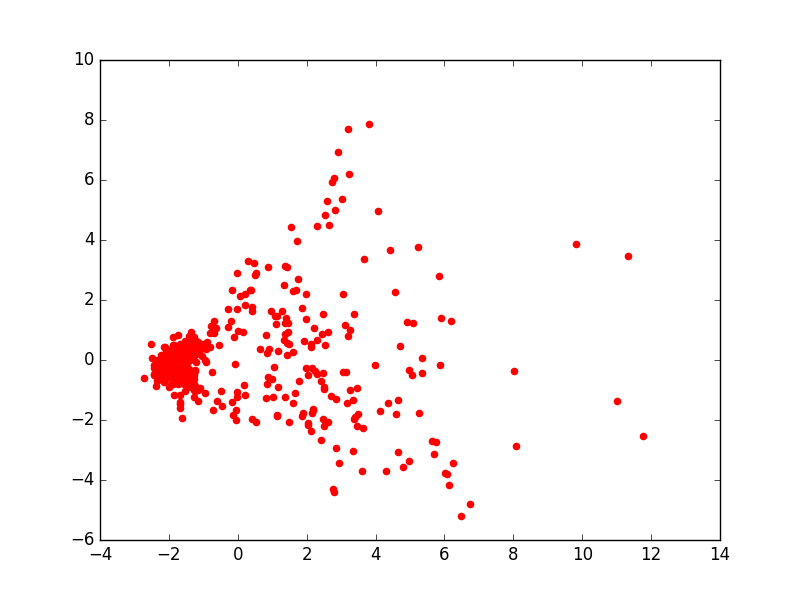
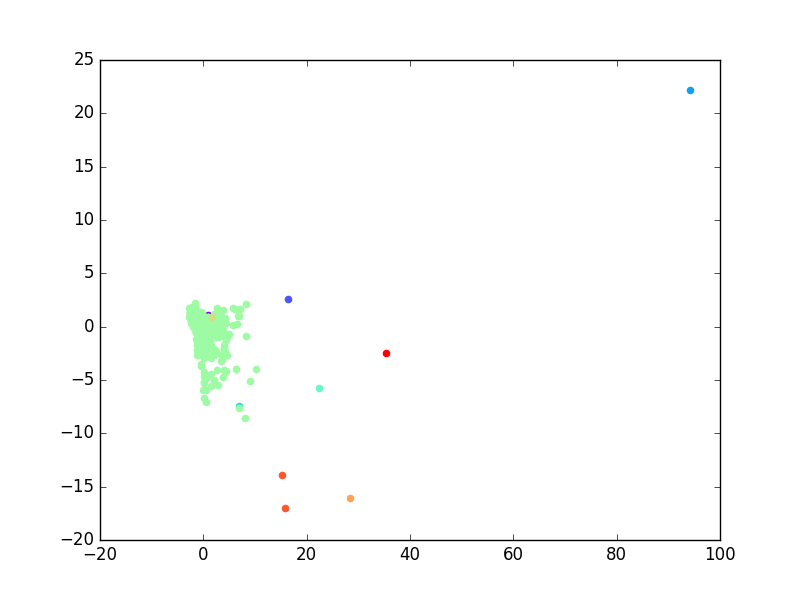
final fixes fix pca implementation

diff --git a/helper/graph.py b/helper/graph.py
@@ -5,30 +5,35 @@ import numpy as np
 
 
 def plot(data, centroids=None, n=None, filename=None, truth=None):
+    if truth: key = 'truth'
+    else: key = 'cluster'
+    cluster = map(lambda d: d[key], data)
+    points = map(lambda d: d['expressions'], data)
 
     fig, ax = plt.subplots()
     if centroids:
         colors = iter(cm.rainbow(np.linspace(0, 1, len(centroids))))
-        centroids = map(lambda d: d['expressions'], centroids)
-        pca = PCA(n_components=2)
-        fitted_centroids = pca.fit_transform(centroids)
+        c_centroids = map(lambda d: d['expressions'], centroids)
+        c_cluster = range(1,len(centroids)+1)
+        points.extend(c_centroids)
+        cluster.extend(c_cluster)
         n = len(centroids)
     elif n:
         colors = iter(cm.rainbow(np.linspace(0, 1, n)))
+    pca = PCA(n_components=2)
+    pca.fit(points)
+    fitted = pca.transform(points)
     for i in range(n):
-        pca = PCA(n_components=2)
         c = next(colors)
+        ids = [q for q, x in enumerate(cluster) if x == i+1]
+        c_points = fitted[ids, :]
         if centroids:
-            centroid = fitted_centroids[i]
+            centroid = c_points[(-1), :]
             plt.scatter(centroid[0], centroid[1], color=c, marker='x', s=80)
-        if truth:
-            points = map(lambda f: f['expressions'], filter(lambda d: d['truth'] == i + 1, data))
-        else:
-            points = map(lambda f: f['expressions'], filter(lambda d: d['cluster'] == i + 1, data))
-        if len(points):
-            fitted = pca.fit_transform(points)
-            if fitted.shape[1] == 2:
-                plt.scatter(fitted[:, 0], fitted[:, 1], color=c)
+
+        if len(c_points):
+            if c_points.shape[1] == 2:
+                plt.scatter(c_points[:, 0], c_points[:, 1], color=c)
         # break
     plt.show()
     if filename:

diff --git a/Kmeans.py b/Kmeans.py
@@ -6,16 +6,17 @@ from helper.utils import load_data, print_list, pick
 from helper.validation import jaccard_coefficient
 from helper.graph import plot
 
-filename = "iyer"
-# IDS = "1,68,203,278,332"
-IDS = "2,102,263,301,344,356,394,411,474,493"
-# IDS = "1,10,20"
+filename = "cho"
+IDS = "1,68,203,278,332"
+# IDS = "2,102,263,301,344,356,394,411,474,493"
+# IDS = "40,41,42"
 # IDS = "1,4"
+
 IDS = IDS.split(',')
 CLUSTERS = len(IDS)
 INPUT_FILE = 'data/'+filename+'.txt'
 
-iterations = 5
+iterations = None
 
 
 def distance(a1, a2):
@@ -79,7 +80,7 @@ while not converged(prev, data):
         if i == iterations:
             break
         i += 1
-        print i+1
+        print i + 1
     centroids = compute_centroids(data)
     prev = deepcopy(data)
     compute_distance(centroids, data)
@@ -88,5 +89,5 @@ for i in range(CLUSTERS):
     print map(lambda c: c['id'], filter(lambda d: d['cluster'] == i+1, data))
 end = time.time()
 print "time elapsed", end-start
-print jaccard_coefficient(original, data)
+print "Jaccard Coefficient", jaccard_coefficient(original, data)
 plot(data, centroids=centroids, filename="output/truth-"+filename+".png", truth=True)

diff --git a/Spectral.py b/Spectral.py
@@ -11,10 +11,10 @@ import time
 
 iterations = None
 
-filename = 'iyer'
+filename = 'new_dataset_1'
 # IDS = "1,68,203,278,332"
-IDS = "2,102,263,301,344,356,394,411,474,493"
-# IDS = "1,10,20"
+# IDS = "2,102,263,301,344,356,394,411,474,493"
+IDS = "1,10,20"
 # IDS = "1,4"
 INPUT_FILE = 'data/'+filename+'.txt'
 IDS = IDS.split(',')
@@ -26,9 +26,9 @@ points = map(lambda d: d['expressions'], data)
 matrix = distance_matrix(points, points, p=2)
 laplacian_matrix = laplacian(matrix)
 
-vals, vecs = eigs(laplacian_matrix, k=4)
-for i in xrange(len(data)):
-    data[i]['expressions'] = vecs[i]
+vals, vecs = eigs(laplacian_matrix, k=3)
+# for i in xrange(len(data)):
+#     data[i]['expressions'] = vecs[i]
 
 
 def distance(a1, a2):
@@ -100,7 +100,7 @@ for i in range(0, CLUSTERS):
     print map(lambda c: c['id'], filter(lambda d: d['cluster'] == i+1, data))
 end = time.time()
 print "time elapsed", end-start
-print jaccard_coefficient(original, data)
+print "Jaccard Coefficient", jaccard_coefficient(original, data)
 for i in range(len(data)):
     data[i]['expressions'] = points[i]
 

diff --git a/Agglomerative.py b/Agglomerative.py
@@ -28,18 +28,25 @@ end = time.time()
 print "time elapsed", end-start
 matrix.save("agglomerative-" + filename)
 clusters = list(matrix.history[THRESHOLD])
-# print clusters
+print_list(clusters)
 truths = map(lambda cluster: map(lambda point: filter(lambda d: d['id'] == point, data)[0]['truth'], cluster), clusters)
 
 ids = map(lambda d: d['id'], data)
 for i in range(THRESHOLD):
     truth = map(lambda t: t.count(i+1), truths)
-    print truth
+    # print truth
     idx = max(xrange(len(truth)), key=truth.__getitem__)
     for p in clusters[idx]:
         idx = ids.index(p)
         data[idx]['cluster'] = i+1
 
-print jaccard_coefficient(original, data)
+print "Jaccard Coefficient", jaccard_coefficient(original, data)
+
+i = 1
+for cluster in clusters:
+    for p in cluster:
+        dp = filter(lambda d: d['id'] == p, data)[0]
+        dp['cluster'] = i
+    i += 1
 
 plot(data, n=THRESHOLD, filename="output/agglomerative-"+filename+".png")
